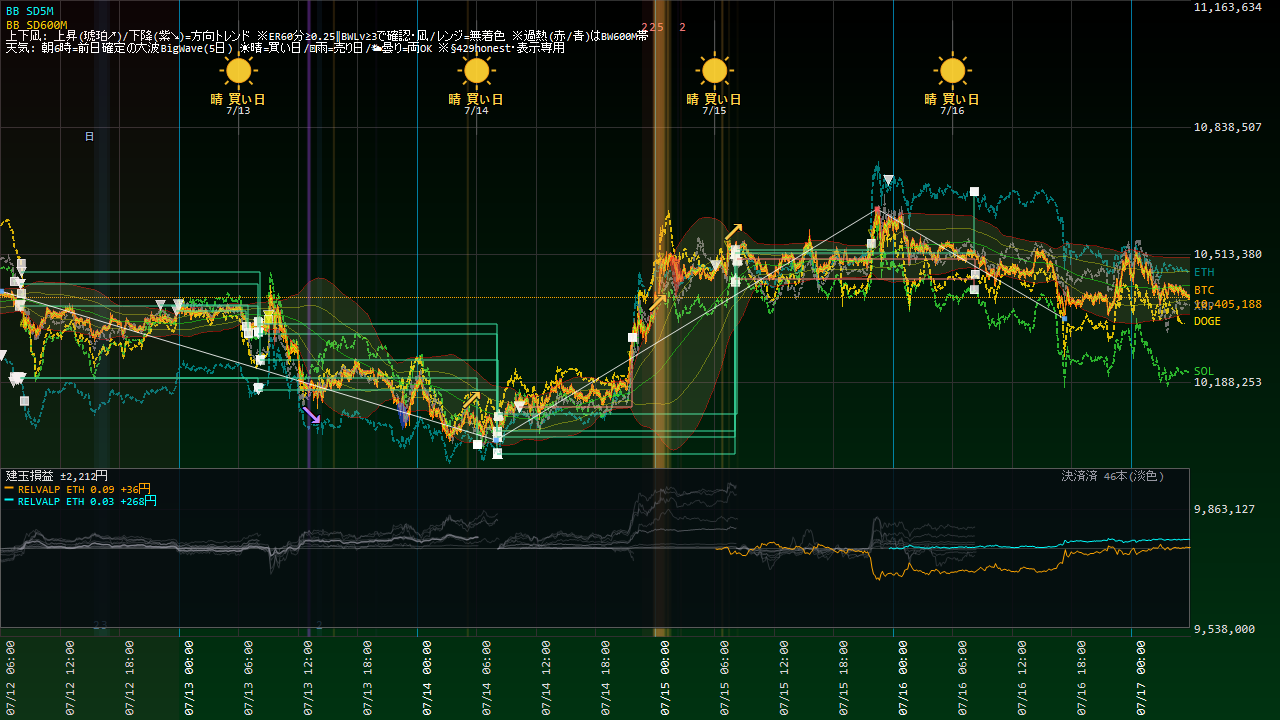
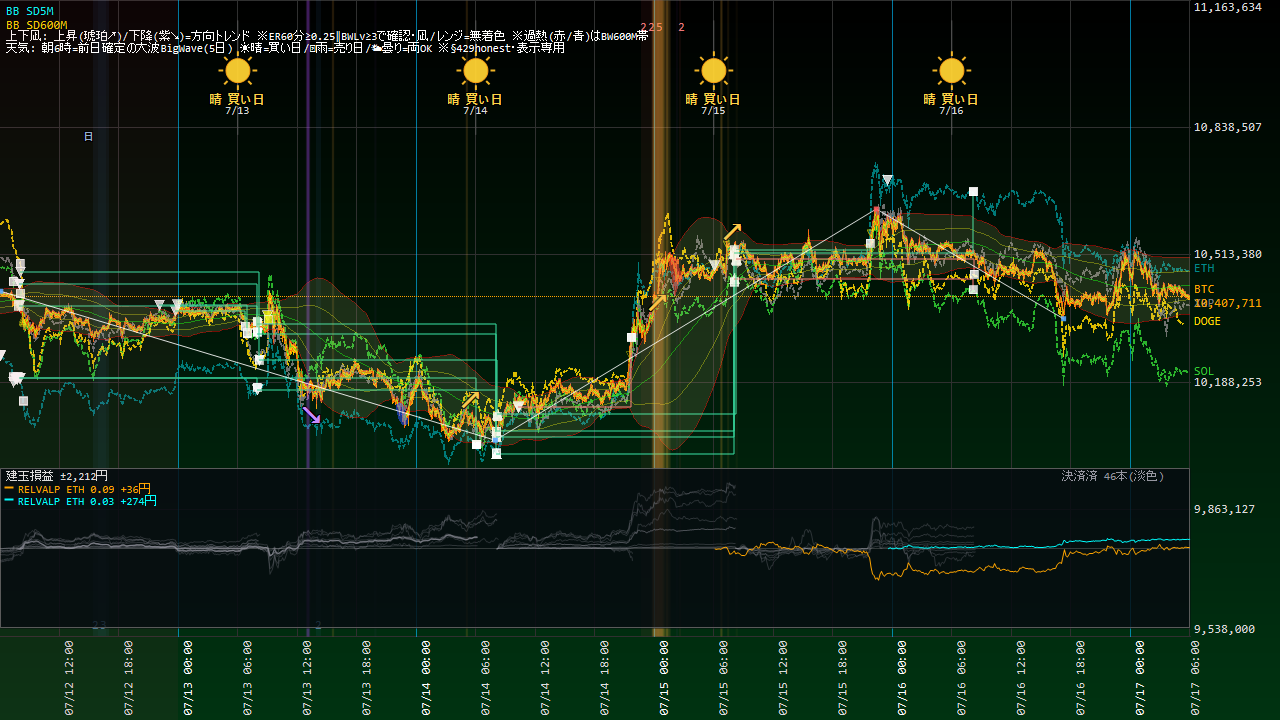
Coin100S 運用状況更新 07-17 06:05

diff --git a/coin100s-795hc4jfv8/index.html b/coin100s-795hc4jfv8/index.html
@@ -14,16 +14,16 @@ a{color:#60a5fa;text-decoration:none} a:hover{text-decoration:underline}
 .meta{color:#94a3b8;font-size:13px}</style>
 <script>setTimeout(function(){location.replace(location.pathname+"?t="+Date.now());},300000);</script></head><body>
 <h1>Coin100S ダッシュボード</h1>
-<p class="meta">スナップショット: 2026-07-17 05:59:06(自動リロード・最新化)</p>
+<p class="meta">スナップショット: 2026-07-17 06:05:07(自動リロード・最新化)</p>
 <div class="cards">
 <div class="card">建玉数<div class="v">2</div></div>
-<div class="card">本日損益<div class="v pos">+804円</div></div>
-<div class="card">評価損益<div class="v pos">+312円</div></div>
+<div class="card">本日損益<div class="v ">?</div></div>
+<div class="card">評価損益<div class="v pos">+267円</div></div>
 </div>
 <h2>現在の建玉</h2>
-<table><tr><th>銘柄</th><th>側</th><th>数量</th><th>建値</th><th>含損益</th><th>レッグ</th></tr><tr><td>ETH_JPY</td><td>SELL</td><td>0.03</td><td>@313,051</td><td>+271円</td><td>RELVALP_SL700</td></tr><tr><td>ETH_JPY</td><td>SELL</td><td>0.09</td><td>@304,456</td><td>+41円</td><td>RELVALP_SELL</td></tr></table>
+<table><tr><th>銘柄</th><th>側</th><th>数量</th><th>建値</th><th>含損益</th><th>レッグ</th></tr><tr><td>ETH_JPY</td><td>SELL</td><td>0.03</td><td>@313,051</td><td>+261円</td><td>RELVALP_SL700</td></tr><tr><td>ETH_JPY</td><td>SELL</td><td>0.09</td><td>@304,456</td><td>+11円</td><td>RELVALP_SELL</td></tr></table>
 <p><a href="status.html"><b>▶ 運用状況の詳細(チャート・本日の取引・レジーム)</b></a></p>
 <h2>日報一覧</h2>
 <table><tr><th>取引日</th><th>実現損益</th><th>総括</th></tr><tr><td><a href='reports/20260715_Coin100S日報.html'>2026-07-15</a></td><td class="pos">+0円</td><td class='meta'>実取引: 新規6件/決済5件、実現損益 +0円。シグナル却下6件（最多: BW10M3_5M／トレンド方向ゲート(N分傾き上と不一致=逆張り方向のfade禁止)）。⚠警告/エラー 7件（要確認）。</td></tr><tr><td><a href='reports/20260714_Coin100S日報.html'>2026-07-14</a></td><td class="pos">+0円</td><td class='meta'>実取引: 新規6件/決済18件、実現損益 +0円。シグナル却下5件（最多: BW10M3_5M／トレンド方向ゲート(N分傾き上と不一致=逆張り方向のfade禁止)）。⚠警告/エラー 9件（要確認）。</td></tr><tr><td><a href='reports/20260713_Coin100S日報.html'>2026-07-13</a></td><td class="pos">+0円</td><td class='meta'>実取引: 新規5件/決済8件、実現損益 +0円。シグナル却下1件（最多: BW10M3_5M／トレンド方向ゲート(N分傾き上と不一致=逆張り方向のfade禁止)）。警告/孤児/エラーなし＝健全。</td></tr><tr><td><a href='reports/20260712_Coin100S日報.html'>2026-07-12</a></td><td class="pos">+0円</td><td class='meta'>実取引: 新規14件/決済6件、実現損益 +0円。シグナル却下5件（最多: BW10M3_5M／トレンド方向ゲート(N分傾き下と不一致=逆張り方向のfade禁止)）。⚠警告/エラー 2件（要確認）。</td></tr><tr><td><a href='reports/20260711_Coin100S日報.html'>2026-07-11</a></td><td class="pos">+0円</td><td class='meta'>実取引: 新規7件/決済6件、実現損益 +0円。⚠警告/エラー 52件（要確認）。</td></tr><tr><td><a href='reports/20260710_Coin100S日報.html'>2026-07-10</a></td><td class="pos">+0円</td><td class='meta'>実取引: 新規7件/決済6件、実現損益 +0円。シグナル却下6件（最多: BW10M3_5M／トレンド方向ゲート(N分傾き上と不一致=逆張り方向のfade禁止)）。警告/孤児/エラーなし＝健全。</td></tr><tr><td><a href='reports/20260709_Coin100S日報.html'>2026-07-09</a></td><td class="pos">+0円</td><td class='meta'>実取引: 新規8件/決済3件、実現損益 +0円。シグナル却下5件（最多: SD120M_5M／トレンド方向ゲート(N分傾き上と不一致=逆張り方向のfade禁止)）。警告/孤児/エラーなし＝健全。</td></tr><tr><td><a href='reports/20260708_Coin100S日報.html'>2026-07-08</a></td><td class="pos">+0円</td><td class='meta'>実取引: 新規2件/決済4件、実現損益 +0円。シグナル却下4件（最多: SD120M_5M／トレンド方向ゲート(N分傾き下と不一致=逆張り方向のfade禁止)）。警告/孤児/エラーなし＝健全。</td></tr><tr><td><a href='reports/20260707_Coin100S日報.html'>2026-07-07</a></td><td class="pos">+0円</td><td class='meta'>実取引: 新規8件/決済6件、実現損益 +0円。シグナル却下4件（最多: SD120M_5M／トレンド方向ゲート(N分傾き上と不一致=逆張り方向のfade禁止)）。⚠警告/エラー 258件（要確認）。</td></tr><tr><td><a href='reports/20260706_Coin100S日報.html'>2026-07-06</a></td><td class="pos">+0円</td><td class='meta'>実取引: 新規9件/決済6件、実現損益 +0円。シグナル却下9件（最多: SD120M_5M／トレンド方向ゲート(N分傾き上と不一致=逆張り方向のfade禁止)）。⚠警告/エラー 150件（要確認）。</td></tr><tr><td><a href='reports/20260705_Coin100S日報.html'>2026-07-05</a></td><td class="pos">+0円</td><td class='meta'>実取引: 新規8件/決済3件、実現損益 +0円。⚠警告/エラー 2件（要確認）。</td></tr><tr><td><a href='reports/20260704_Coin100S日報.html'>2026-07-04</a></td><td class="pos">+0円</td><td class='meta'>実取引: 新規1件/決済2件、実現損益 +0円。⚠警告/エラー 2件（要確認）。</td></tr><tr><td><a href='reports/20260703_Coin100S日報.html'>2026-07-03</a></td><td class="pos">+0円</td><td class='meta'>実取引: 新規5件/決済4件、実現損益 +0円。⚠警告/エラー 15件（要確認）。</td></tr><tr><td><a href='reports/20260702_Coin100S日報.html'>2026-07-02</a></td><td class="pos">+0円</td><td class='meta'>実取引: 新規7件/決済5件、実現損益 +0円。シグナル却下17件（最多: SD120M_5M／トレンド方向ゲート(N分傾き上と不一致=逆張り方向のfade禁止)）。⚠警告/エラー 26件（要確認）。</td></tr><tr><td><a href='reports/20260701_Coin100S日報.html'>2026-07-01</a></td><td class="pos">+0円</td><td class='meta'>実取引: 新規14件/決済8件、実現損益 +0円。シグナル却下14件（最多: SD120M_5M／ボラ軸ゲート(SDN%&amp;gt;N%=高ボラ/荒れレンジ)）。⚠警告/エラー 2件（要確認）。</td></tr><tr><td><a href='reports/20260630_Coin100S日報.html'>2026-06-30</a></td><td class="pos">+0円</td><td class='meta'>実取引: 新規0件/決済1件、実現損益 +0円。シグナル却下29件（最多: 微5M／当日枠N）。警告/孤児/エラーなし＝健全。</td></tr></table>
-<hr><p class="meta">更新: 2026-07-17 05:59:09 / 自動生成: tools/web_publish.py(§580)</p>
+<hr><p class="meta">更新: 2026-07-17 06:05:07 / 自動生成: tools/web_publish.py(§580)</p>
 </body></html>

diff --git a/coin100s-795hc4jfv8/status.html b/coin100s-795hc4jfv8/status.html
@@ -14,22 +14,22 @@ a{color:#60a5fa;text-decoration:none} a:hover{text-decoration:underline}
 .meta{color:#94a3b8;font-size:13px}</style>
 <script>setTimeout(function(){location.replace(location.pathname+"?t="+Date.now());},300000);</script></head><body>
 <h1>Coin100S 運用状況</h1>
-<p class="meta">スナップショット: 2026-07-17 05:58:37 / ページ生成: 2026-07-17 05:59:09(自動リロード・最新化) / <a href="index.html">目次へ</a></p>
+<p class="meta">スナップショット: 2026-07-17 06:04:36 / ページ生成: 2026-07-17 06:05:07(自動リロード・最新化) / <a href="index.html">目次へ</a></p>
 <div class="cards">
 <div class="card">建玉数<div class="v">2</div></div>
-<div class="card">本日損益<div class="v pos">+804円</div></div>
-<div class="card">評価損益<div class="v pos">+328円</div></div>
+<div class="card">本日損益<div class="v ">?</div></div>
+<div class="card">評価損益<div class="v pos">+282円</div></div>
 </div>
 <h2>資産推移(直近30日)</h2>
-<img src="status_equity.png?t=0559" alt="equity">
+<img src="status_equity.png?t=0605" alt="equity">
 <h2>取引チャート(直近24h)</h2>
-<img src="status_chart.png?t=0559" alt="chart">
+<img src="status_chart.png?t=0605" alt="chart">
 <h2>建玉一覧</h2>
-<table><tr><th>銘柄</th><th>側</th><th>数量</th><th>建値</th><th>含損益</th><th>レッグ</th></tr><tr><td>ETH_JPY</td><td>SELL</td><td>0.03</td><td>@313,051</td><td>+275円</td><td>RELVALP_SL700</td></tr><tr><td>ETH_JPY</td><td>SELL</td><td>0.09</td><td>@304,456</td><td>+53円</td><td>RELVALP_SELL</td></tr></table>
+<table><tr><th>銘柄</th><th>側</th><th>数量</th><th>建値</th><th>含損益</th><th>レッグ</th></tr><tr><td>ETH_JPY</td><td>SELL</td><td>0.03</td><td>@313,051</td><td>+264円</td><td>RELVALP_SL700</td></tr><tr><td>ETH_JPY</td><td>SELL</td><td>0.09</td><td>@304,456</td><td>+18円</td><td>RELVALP_SELL</td></tr></table>
 <h2>実現決済履歴(直近15件・OrderId単位)</h2>
 <table><tr><th>決済時刻</th><th>レッグ</th><th>銘柄</th><th>実現損益</th></tr><tr><td>07-16 08:21</td><td>TENKI5D_REV_DOGE</td><td>DOGE</td><td class="neg">-125円</td></tr><tr><td>07-16 08:12</td><td>TENKI5D_REV_ETH</td><td>ETH</td><td class="pos">+740円</td></tr><tr><td>07-16 08:12</td><td>TENKI5D_REV_ETH</td><td>ETH</td><td class="pos">+555円</td></tr><tr><td>07-16 08:12</td><td>TENKI5D_REV_SOL</td><td>SOL</td><td class="neg">-193円</td></tr><tr><td>07-15 21:51</td><td>TENKI5D_REV_BTC</td><td>BTC</td><td class="pos">+94円</td></tr><tr><td>07-15 08:18</td><td>TENKI5D_REV_DOGE</td><td>DOGE</td><td class="pos">+858円</td></tr><tr><td>07-15 08:09</td><td>TENKI5D_REV_ETH</td><td>ETH</td><td class="pos">+601円</td></tr><tr><td>07-15 08:09</td><td>TENKI5D_REV_ETH</td><td>ETH</td><td class="pos">+2,402円</td></tr><tr><td>07-15 08:09</td><td>TENKI5D_REV_SOL</td><td>SOL</td><td class="pos">+1,812円</td></tr><tr><td>07-15 08:09</td><td>TENKI5D_REV_BTC</td><td>BTC</td><td class="pos">+1,850円</td></tr><tr><td>07-14 21:47</td><td>SIGFADE_ETH</td><td>ETH</td><td class="neg">-350円</td></tr><tr><td>07-14 21:47</td><td>SIGFADE_ETH</td><td>ETH</td><td class="neg">-141円</td></tr><tr><td>07-14 08:15</td><td>TENKI5D_REV_DOGE</td><td>DOGE</td><td class="pos">+267円</td></tr><tr><td>07-14 08:06</td><td>TENKI5D_REV_SOL</td><td>SOL</td><td class="pos">+1,011円</td></tr><tr><td>07-14 08:06</td><td>TENKI5D_REV_BTC</td><td>BTC</td><td class="pos">+819円</td></tr></table>
 <!-- §799c 「本取引日の実取引(6:00起点)」テーブルは公開ページから削除(ユーザー指示2026-07-15・数量/指値まで晒す情報漏れ)。建玉/実現損益は許可・実発注の生取引明細は非公開 -->
 <h2>現在レジーム(3軸・§570c)</h2>
-<ul><li>アルト対BTC 5日: <b>-76bps</b>(アルト劣後=RELVAL順風)</li><li>BTC ER240m: <b>0.091</b>(閾値0.25→レンジ(fade順風/BWTRD逆風))</li><li>BTC実現ボラ240m: <b>3.77</b> bps/分</li></ul>
+<ul><li>アルト対BTC 5日: <b>-76bps</b>(アルト劣後=RELVAL順風)</li><li>BTC ER240m: <b>0.065</b>(閾値0.25→レンジ(fade順風/BWTRD逆風))</li><li>BTC実現ボラ240m: <b>3.71</b> bps/分</li></ul>
 <hr><p class="meta">自動生成: tools/web_publish.py(§580・読み取り専用)。売買判断はアプリ本体。</p>
 </body></html>
